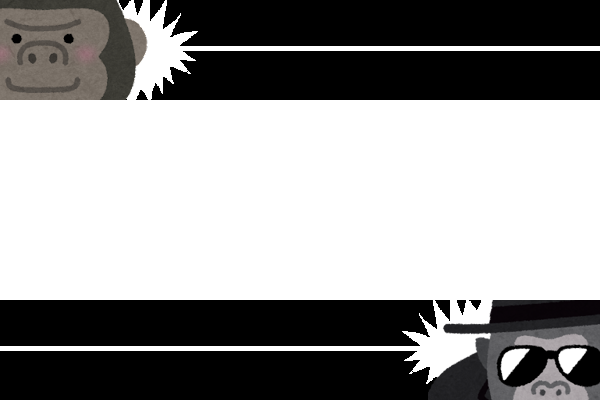
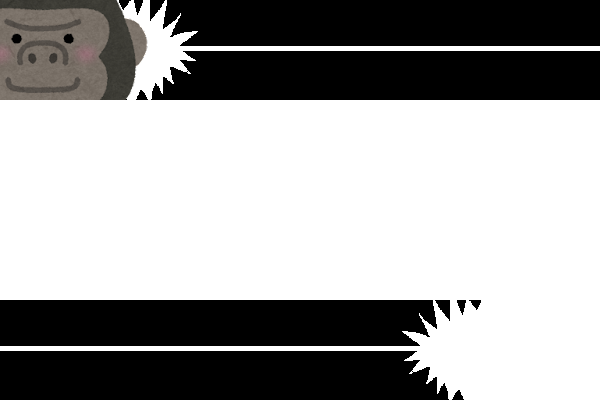
[add] 八王子のキャラクタをむりやり登場

Changed region(s): [[0.69, 0.75, 1.0, 1.0]]

diff --git a/main.py b/main.py
@@ -19,7 +19,7 @@ def main():
     img_bg = pygame.transform.scale(pygame.image.load("images/bg.jpg"), (600, 400))
     img_bikkuri = pygame.image.load("images/bikkuri.png").convert_alpha()
     img_gorilla1 = pygame.image.load("images/gorilla1.png").convert_alpha()
-    img_gorilla2 = pygame.image.load("images/gorilla2.png").convert_alpha()
+    img_gorilla2 = pygame.image.load("images/enemy1.png").convert_alpha()
     img_miss = pygame.image.load("images/miss.png").convert_alpha()
     img_win = pygame.image.load("images/win.png").convert_alpha()
     img_lose = pygame.image.load("images/lose.png").convert_alpha()
@@ -35,6 +35,7 @@ def main():
     timer = 0
     timer_return = 0
     select_menu = 0
+    cleared = [0, 0, 0, 0, 0]
     menu_num = 3 # 難易度の数，初めは3，HELL開放で4，IMPOSSIBLE開放で5
 
     while(True):
@@ -45,21 +46,28 @@ def main():
         if game_status == "menu": # メニュー画面
             screen.blit(img_title, [0, 0])
             text = font_menu.render("EASY", True, (255,255,255))
-            screen.blit(text, [200, 100])
+            screen.blit(text, [250, 100])
             text = font_menu.render("NORMAL", True, (255,255,255))
-            screen.blit(text, [200, 150])
+            screen.blit(text, [250, 150])
             text = font_menu.render("HARD", True, (255,255,255))
-            screen.blit(text, [200, 200])
+            screen.blit(text, [250, 200])
             if menu_num >= 4: # 解禁済みなら色を変える，(100,100,100)はグレー(未解禁)，(255,255,255)は白(解禁済み)
                 text = font_menu.render("HELL", True, (255,255,255))
             else:
                 text = font_menu.render("HELL", True, (100,100,100))
-            screen.blit(text, [200, 250])
+            screen.blit(text, [250, 250])
             if menu_num >= 5: # 解禁済みなら表示
                 text = font_menu.render("IMPOSSIBLE", True, (255,100,100))
-                screen.blit(text, [200, 300])
+                screen.blit(text, [250, 300])
             text = font_menu.render(">", True, (255,255,255)) # カーソル
             screen.blit(text, [150, 50*(select_menu+2)-5])
+            for stage in range(5):
+                if cleared[stage] == 1:
+                    text = font_menu.render("X", True, (255,50,50))
+                    screen.blit(text, [200, 50*(stage+2)])
+                if cleared[stage] == 2:
+                    text = font_menu.render("O", True, (50,255,50))
+                    screen.blit(text, [200, 50*(stage+2)])
 
         elif game_status == "fight": # ゲーム中
             screen.blit(img_bg, [0, 0])
@@ -70,6 +78,7 @@ def main():
             screen.blit(img_gorilla2, (550-img_gorilla2.get_rect()[2], 250))
             if timer > 0: # カットイン中なら
                 screen.blit(img_cutin, [0, 0])
+                screen.blit(img_gorilla2, (570-img_gorilla2.get_rect()[2], 300))
             if timer == 0: # カットインが終わった瞬間に1回だけ
                 mixer.music.load("sounds/wind.mp3")
                 mixer.music.play(1)
@@ -104,6 +113,8 @@ def main():
                 screen.blit(img_tip, (300, 350))
 
         elif game_status == "lose": # 負けた時
+            if cleared[select_menu] == 0:
+                cleared[select_menu] = 1
             screen.blit(img_bg, (0, 0))
             text = font.render(str(finish_frame), True, (0,0,0))
             screen.blit(text, [373, 335])
@@ -147,6 +158,7 @@ def main():
                         game_status = "win"
                         timer = 150 # ゴリラが踊りだすまでの時間
                         timer_return = 100 # スペースキーで戻れるようになるまでの時間
+                        cleared[select_menu] = 2
                         if select_menu == 2 and menu_num == 3: # HARDクリアでHELL解禁
                             menu_num = 4
                         if select_menu == 3 and menu_num == 4: # HELLクリアでIMPOSSIBLE解禁
@@ -160,6 +172,16 @@ def main():
                     enemy_frame = ENEMY_FRAME[select_menu]
                     game_status = "fight"
                     flying_dist = 0
+                    if select_menu == 0:
+                        img_gorilla2 = pygame.image.load("images/enemy1.png").convert_alpha()
+                    if select_menu == 1:
+                        img_gorilla2 = pygame.image.load("images/enemy2.png").convert_alpha()
+                    if select_menu == 2:
+                        img_gorilla2 = pygame.image.load("images/enemy3.png").convert_alpha()
+                    if select_menu == 3:
+                        img_gorilla2 = pygame.image.load("images/enemy4.png").convert_alpha()
+                    if select_menu == 4:
+                        img_gorilla2 = pygame.image.load("images/enemy5.png").convert_alpha()
                     mixer.music.load("sounds/ready.mp3")
                     mixer.music.play(1)
                     timer = 200 # ゲームが始まる時のカットインの表示時間
